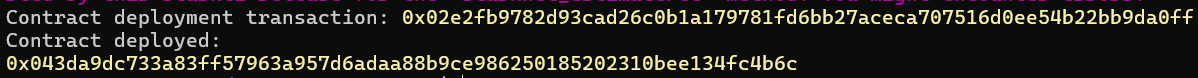
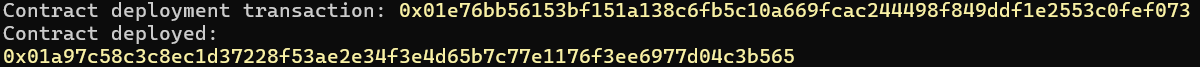
Switch to use salt

Changed region(s): [[0.0, 0.0, 1.0, 0.3582], [0.0, 0.6866, 0.6795, 0.9552], [0.0, 0.3881, 0.1853, 0.6567]]

diff --git a/docs/quickstart/use_localchain.md b/docs/quickstart/use_localchain.md
@@ -147,7 +147,7 @@ Note the declared class hash.
 
 You are now ready to deploy the contract. Deploy with:
 ```bash
-starkli deploy 0x043539387d5f6359716da16fbff9c1536b54c1f5928fbc4a1ea7ea71414d02ab --rpc http://localhost:9944 --private-key 0x0410c6eadd73918ea90b6658d24f5f2c828e39773819c1443d8602a3c72344c2 --account account
+starkli deploy 0x043539387d5f6359716da16fbff9c1536b54c1f5928fbc4a1ea7ea71414d02ab --rpc http://localhost:9944 --private-key 0x0410c6eadd73918ea90b6658d24f5f2c828e39773819c1443d8602a3c72344c2 --account account --salt 1
 ```
 
 ![Contract address](/img/quickstart-local-contract.png "Resulting class contract address")
@@ -158,14 +158,14 @@ Note the deployed contract's address.
 
 The contract keeps track of an imaginary balance. Let's first query the initial balance:
 ```bash
-starkli call --rpc http://localhost:9944 0x043da9dc733a83ff57963a957d6adaa88b9ce986250185202310bee134fc4b6c get
+starkli call --rpc http://localhost:9944 0x01a97c58c3c8ec1d37228f53ae2e34f3e4d65b7c77e1176f3ee6977d04c3b565 get
 ```
 
 You should see value `5` as the initial value (prefixed by a lot of zeros).
 
 Let's try to increase this value by a transaction. Run:
 ```bash
-starkli invoke --account account --rpc http://localhost:9944 --private-key 0x0410c6eadd73918ea90b6658d24f5f2c828e39773819c1443d8602a3c72344c2  0x043da9dc733a83ff57963a957d6adaa88b9ce986250185202310bee134fc4b6c increase 3
+starkli invoke --account account --rpc http://localhost:9944 --private-key 0x0410c6eadd73918ea90b6658d24f5f2c828e39773819c1443d8602a3c72344c2  0x01a97c58c3c8ec1d37228f53ae2e34f3e4d65b7c77e1176f3ee6977d04c3b565 increase 3
 ```
 
 If you now query the balance again, you should see value `8`. Congratulations, you have successfully modified the contract's state!
